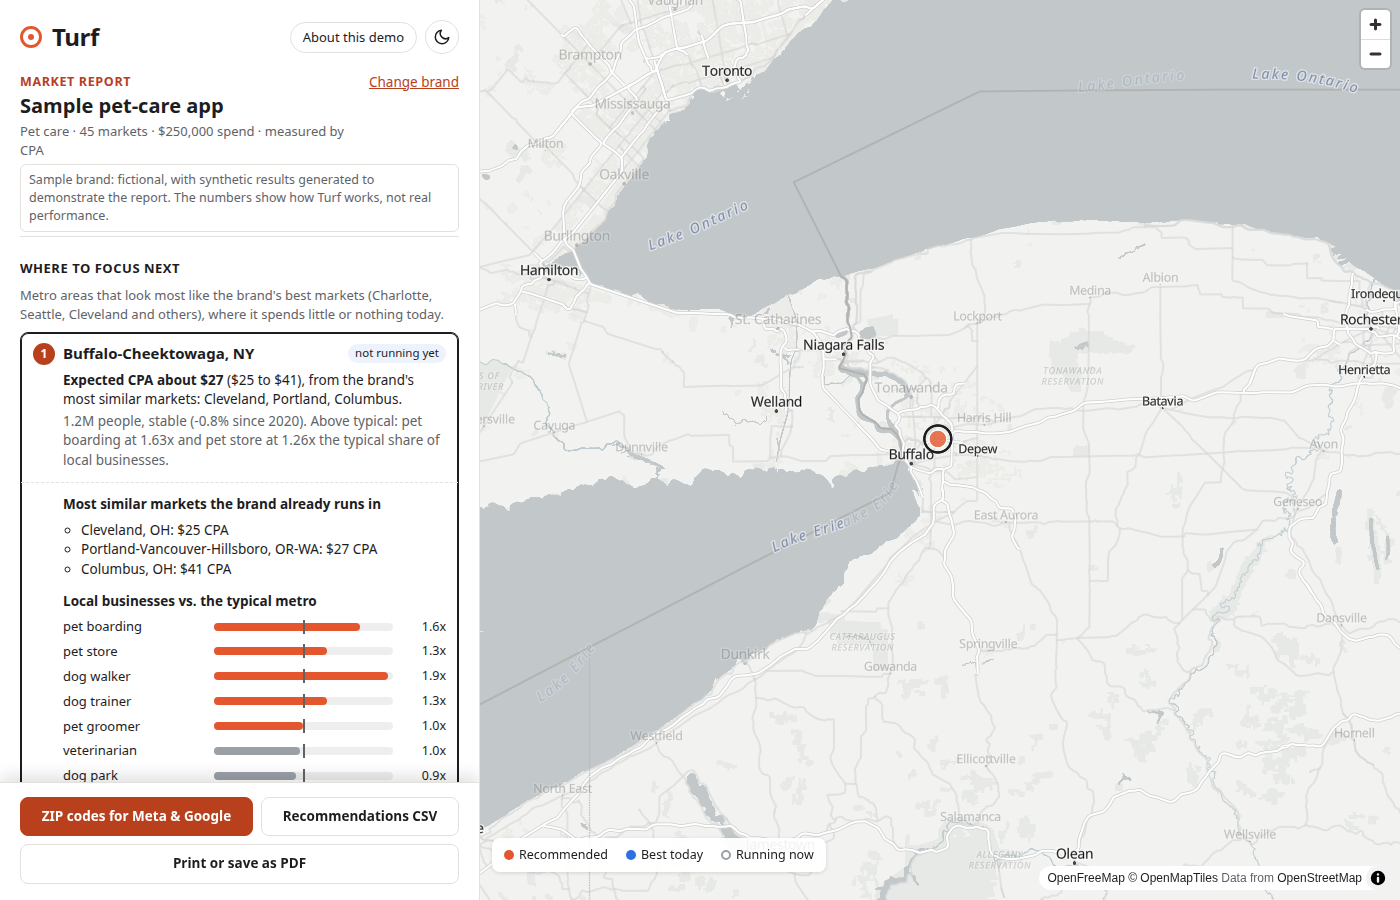
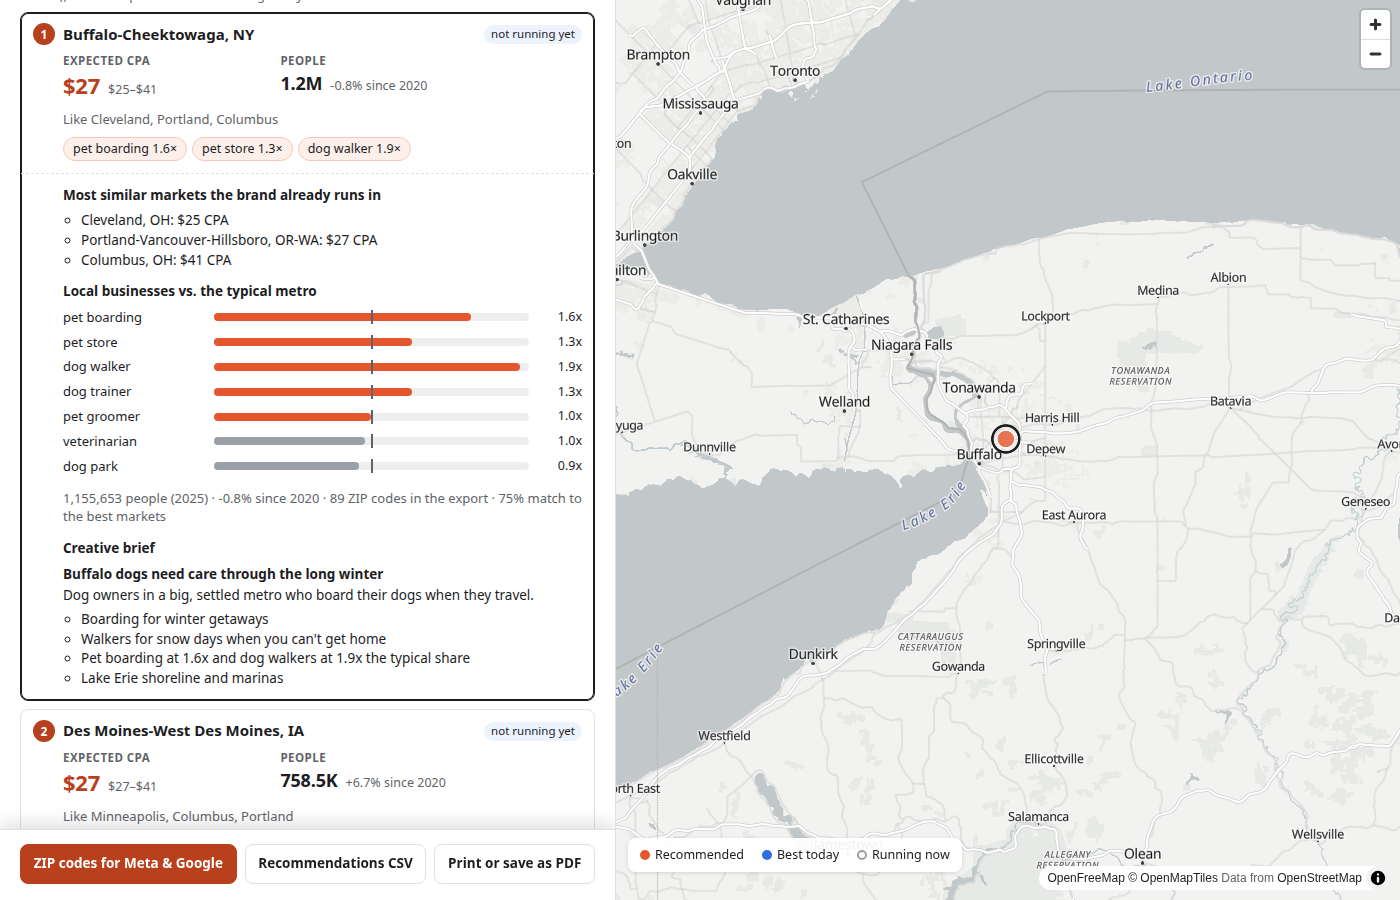
README: screenshots of the current layout and the live sync

diff --git a/README.md b/README.md
@@ -63,6 +63,8 @@ I got here in steps. The first version was a geo-conquesting tool (ads around co
 - **No-build frontend.** Plain JavaScript and MapLibre, served by the same container. Light and dark themes, a print layout, axe-checked for accessibility.
 - **CI/CD:** every merge to `main` runs lint, strict typing and 145 tests. It then builds an immutable Docker image and deploys it over SSH with a key that can *only* run `deploy <sha>`. The server health-checks the new version and rolls back on failure. CI then drives the live site in a real browser, with an accessibility check.
 
+![The live sync: a simulated ad account synced a week later. The panel lists what changed in the report (CPA over the last 28 days, metros that entered, moved or left the top 10), and the sync log shows each page with new and updated rows](documents/img/turf-live-sync.png)
+
 **Not built (yet):**
 - Connections to real ad accounts (the connector syncs the simulated platform; pointing it at a real one means OAuth with that platform and its field names).
 - Measured demand: demographics, income, search volume.
